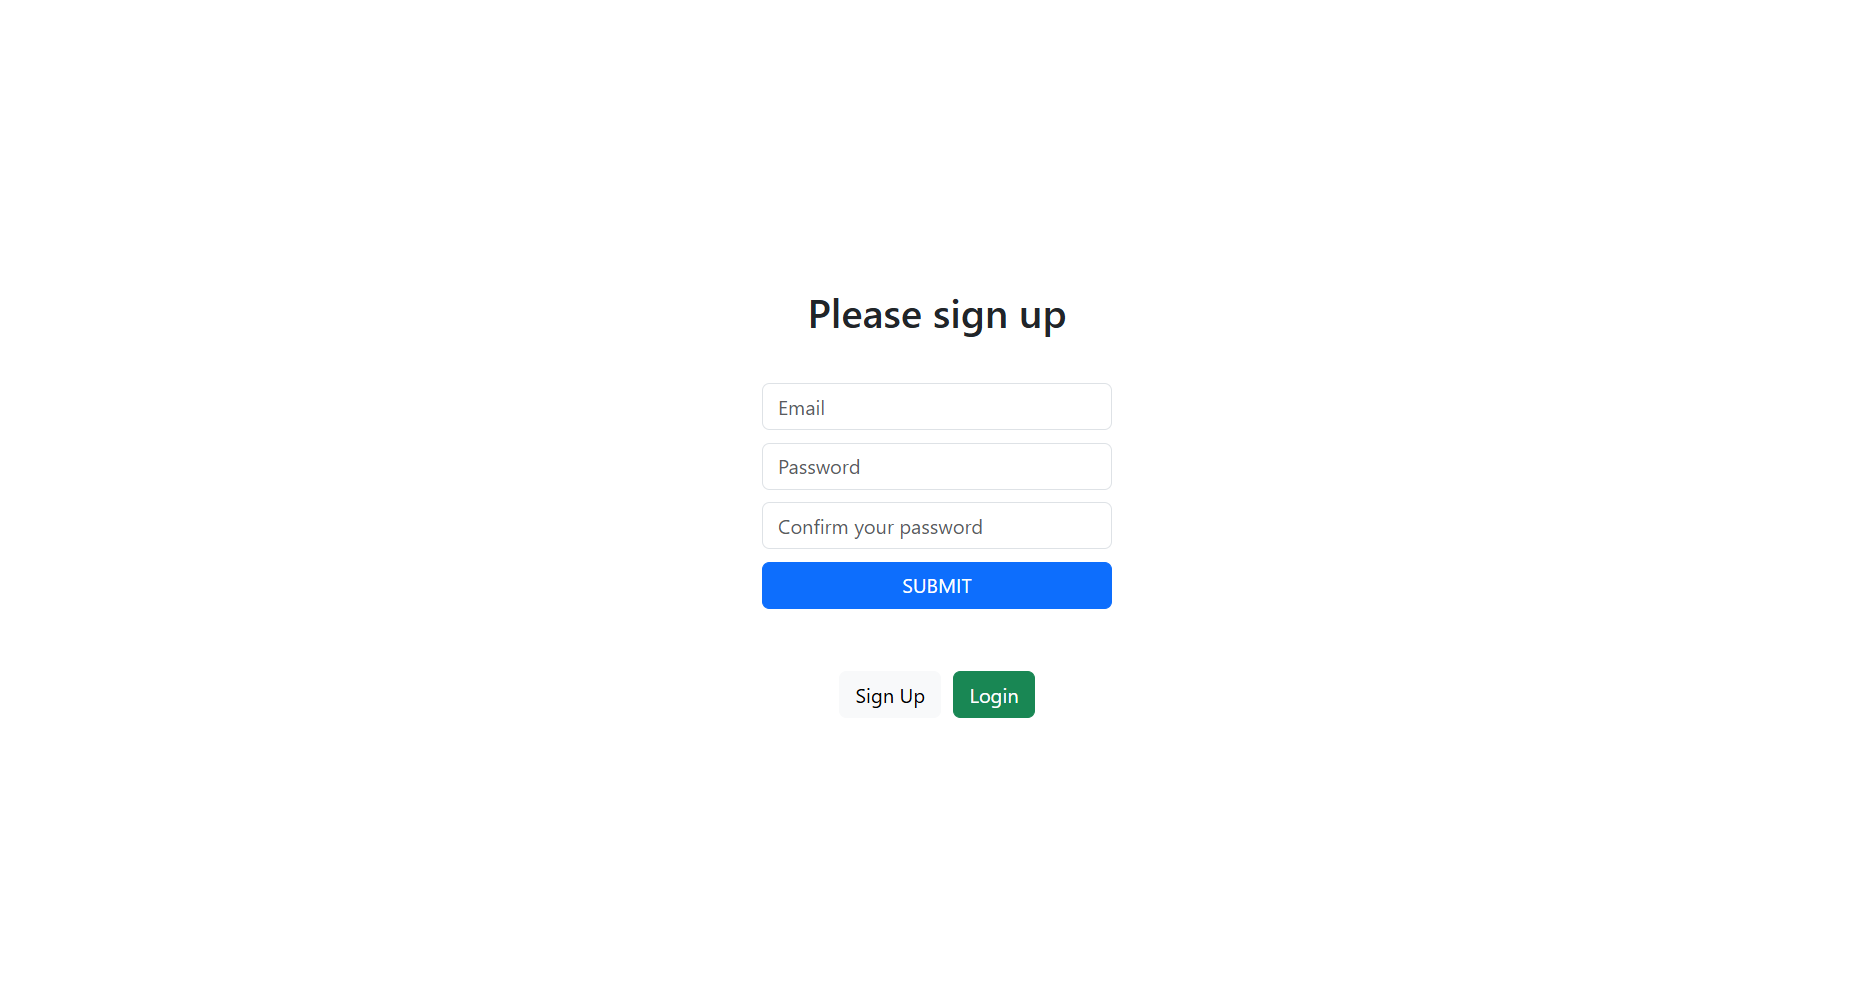
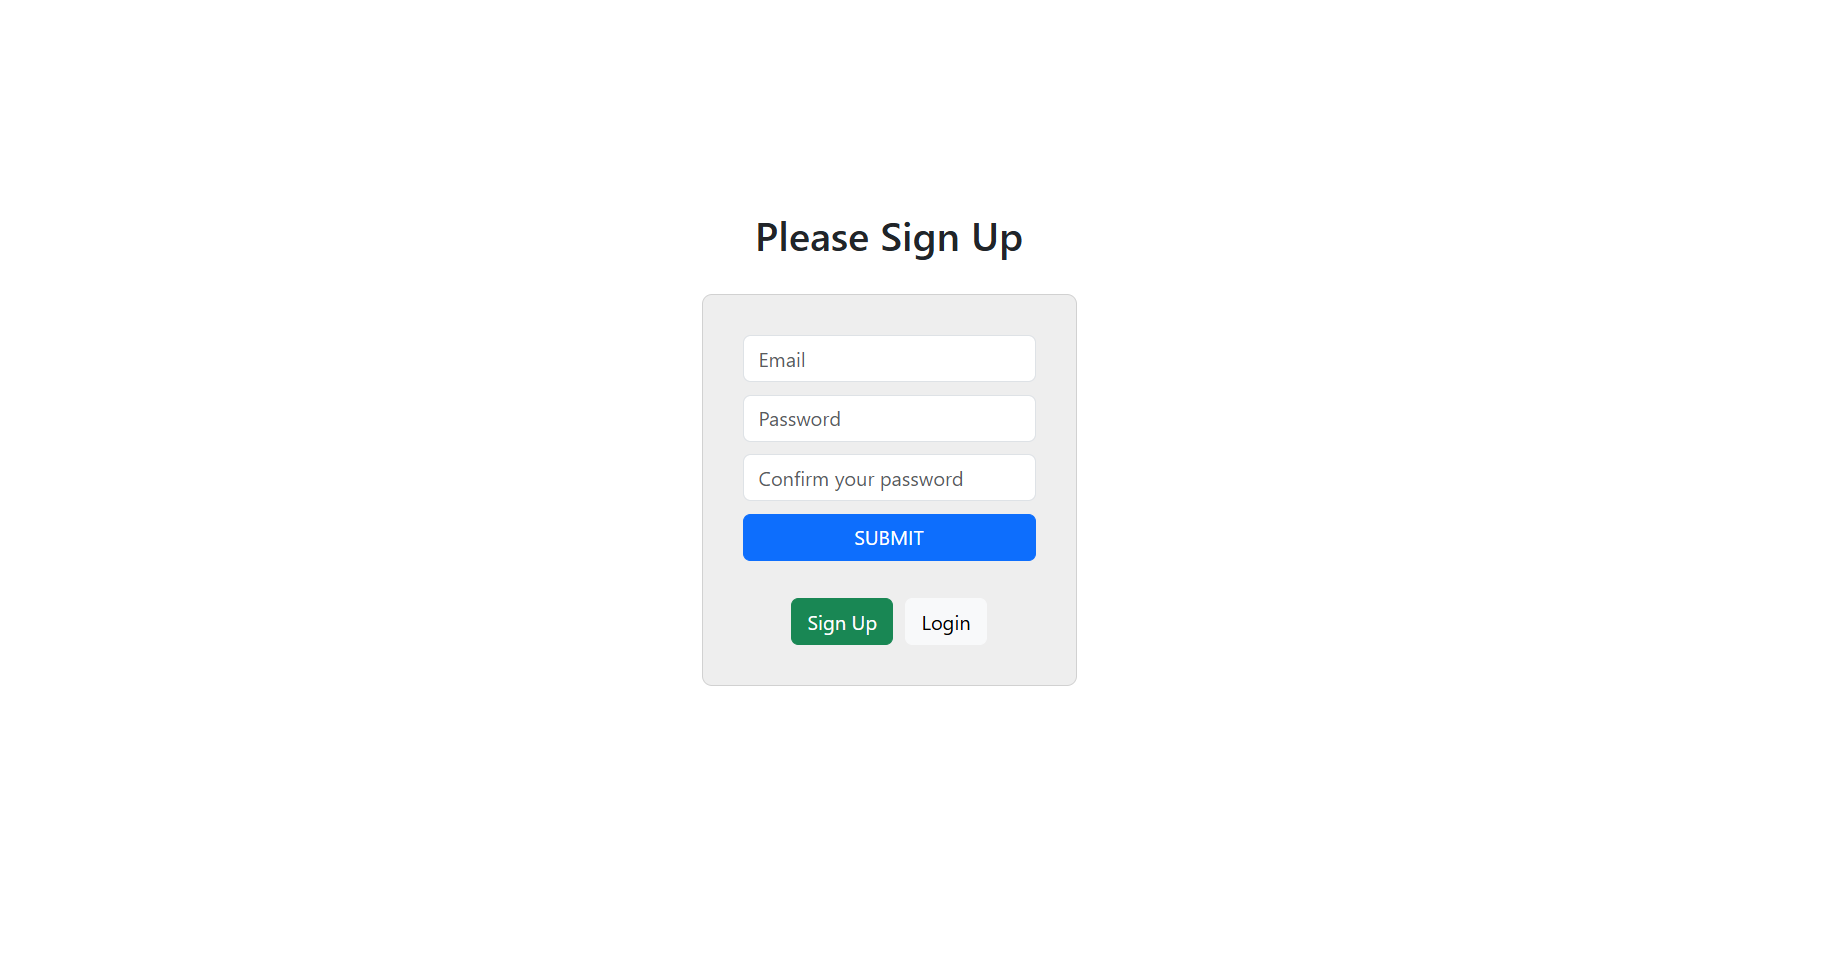
Update README file with env file changes and a new screenshot for the Auth page

Changed region(s): [[0.3996, 0.3673, 0.6147, 0.7347], [0.3996, 0.2143, 0.584, 0.3367]]

diff --git a/todo-list-application/README.md b/todo-list-application/README.md
@@ -149,18 +149,21 @@ cd todo-list-application
 
 `npm install`
 
-4. Create a `.env` file in the client directory and fill it out with the following information;
+4. Create a `.env` file in the `client` directory and fill it out with the following values:
+
 
 ```
-VITE_API_URL_POST=http://localhost:3000/submit
-VITE_API_URL_GET=http://localhost:3000/todos/
-VITE_API_URL_DELETE=http://localhost:3000/todos/
-VITE_API_URL_PUT=http://localhost:3000/todos/
 VITE_API_URL=http://localhost:3000
-VITE_API_URL_VERIFY=http://localhost:3000/verify
-VITE_API_URL_SIGNOUT=http://localhost:3000/signout
-
+VITE_API_PATH_TODOS=/todos/
+VITE_API_PATH_SUBMIT=/submit
+VITE_API_PATH_VERIFY=/verify
+VITE_API_PATH_SIGNOUT=/signout
 ```
+
+- `VITE_API_URL` is the base URL of your backend (update this if deploying).
+- The other values are relative API paths that are combined in the frontend code to build complete URLs.
+- This setup allows you to easily switch environments (e.g., production vs. local) without changing your codebase.
+
 5. Change directory to the root directory of the application:
 
 `cd ../`
